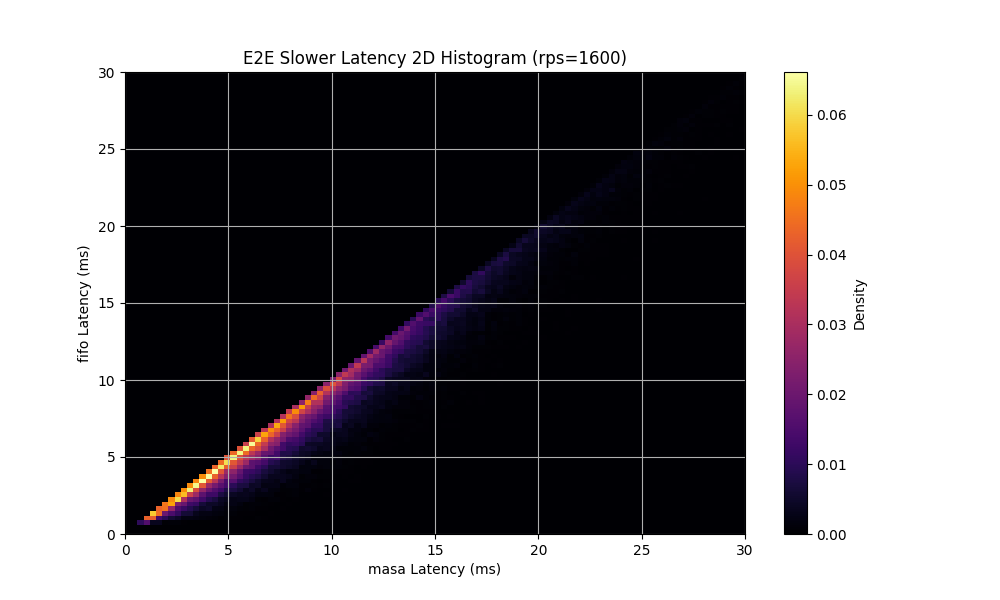
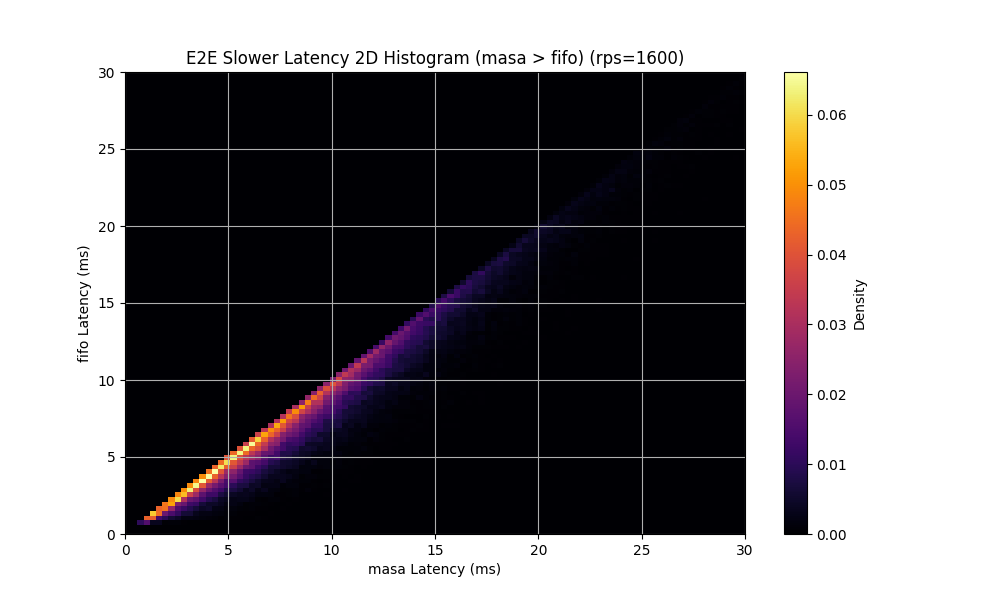
chore: Fix queueing preprocess and plot

Changed region(s): [[0.186, 0.06, 0.682, 0.12]]

diff --git a/reboot/snippets/flat/plot_queueing.py b/reboot/snippets/flat/plot_queueing.py
@@ -6,28 +6,12 @@ import pandas as pd
 
 rps = 1600
 modes = ["masa", "fifo"]
-results_raw = {}
-sh_i1 = "say_hello_i1"
-sh_i2 = "say_hello_i2"
+results_queueing: Dict[str, List[int]] = {}
 
 for mode in modes:
-    file = f"tmp_{mode}_log.txt"
-    id_to_spans: Dict[int, List[Dict]] = {}
-
-    with open(file) as f:
-        lines = f.readlines()
-        for line in lines:
-            if sh_i1 in line or sh_i2 in line:
-                splits = line.split()[-1].split(",")
-                span = splits[0]
-                id = int(splits[1])
-                elapse = int(splits[2])
-                latency = int(splits[3])
-                id_to_spans.setdefault(id, []).append(
-                    {"span": span, "elapse": elapse, "latency": latency}
-                )
-
-    results_raw[mode] = id_to_spans
+    file = f"tmp_{mode}_log_filtered.csv"
+    df = pd.read_csv(file)
+    results_queueing[mode] = list(df["queueing"])
 
 
 def plot_cdf(results: Dict[str, List[int]], title: str, fig_name: str):
@@ -64,31 +48,17 @@ def plot_pdf(results: Dict[str, List[int]], title: str, fig_name: str):
     plt.show()
 
 
-# results_second_hop_queueing: Dict[str, List[int]] = {"masa": [], "fifo": []}
-# for mode in modes:
-#     n_dp = 0
-#     id_to_spans = results_raw[mode]
-#     for id, spans in id_to_spans.items():
-#         if len(spans) == 2:
-#             n_dp += 1
-#             # [NOTE] Depending on the definition of "latency" and "elapse".
-#             # queueing_latency = spans[1]["latency"] - spans[1]["elapse"] - spans[0]["latency"]
-#             queueing_latency = spans[1]["latency"] - spans[0]["latency"]
-#             results_second_hop_queueing[mode].append(queueing_latency)
-#     pctl_dp = n_dp / len(id_to_spans)
-#     print(f"{mode}: {round(pctl_dp*100)}% data points")
+plot_cdf(
+    results_queueing,
+    f"Queueing Latency at Second Hop (rps={rps})",
+    "fig_queueing_second_hop_cdf.png",
+)
 
-# plot_cdf(
-#     results_second_hop_queueing,
-#     f"Queueing Latency at Second Hop (rps={rps})",
-#     "fig_second_hop_queueing_cdf.png",
-# )
-
-# plot_pdf(
-#     results_second_hop_queueing,
-#     f"Queueing Latency at Second Hop (rps={rps})",
-#     "fig_second_hop_queueing_pdf.png",
-# )
+plot_pdf(
+    results_queueing,
+    f"Queueing Latency at Second Hop (rps={rps})",
+    "fig_queueing_second_hop_pdf.png",
+)
 
 
 def plot_ratio_cdf(results: List[float], title: str, fig_name: str):
@@ -137,21 +107,98 @@ def plot_ratio_pdf(results: List[float], title: str, fig_name: str):
     plt.show()
 
 
-# results_second_hop_queueing_ratio: List[float] = []
-# for i in range(len(results_second_hop_queueing["masa"])):
-#     masa = results_second_hop_queueing["masa"][i]
-#     fifo = results_second_hop_queueing["fifo"][i]
-#     ratio = masa / fifo * 100
-#     results_second_hop_queueing_ratio.append(ratio)
+results_queueing_ratio: List[float] = []
+for i in range(len(results_queueing["masa"])):
+    masa = results_queueing["masa"][i]
+    fifo = results_queueing["fifo"][i]
+    ratio = masa / fifo * 100
+    results_queueing_ratio.append(ratio)
 
-# plot_ratio_cdf(
-#     results_second_hop_queueing_ratio,
-#     f"Queueing Latency Ratio at Second Hop (masa / fifo) (rps={rps})",
-#     "fig_second_hop_queueing_ratio_cdf.png",
-# )
+plot_ratio_cdf(
+    results_queueing_ratio,
+    f"Queueing Latency Ratio at Second Hop (masa / fifo) (rps={rps})",
+    "fig_queueing_ratio_second_hop_cdf.png",
+)
 
-# plot_ratio_pdf(
-#     results_second_hop_queueing_ratio,
-#     f"Queueing Latency Ratio at Second Hop (masa / fifo) (rps={rps})",
-#     "fig_second_hop_queueing_ratio_pdf.png",
-# )
+plot_ratio_pdf(
+    results_queueing_ratio,
+    f"Queueing Latency Ratio at Second Hop (masa / fifo) (rps={rps})",
+    "fig_queueing_ratio_second_hop_pdf.png",
+)
+
+
+def plot_2d_histogram(results: Dict[str, List[int]], title, fig_name):
+    fig, ax = plt.subplots(figsize=(10, 6))
+
+    masa_latencies = [r / 1e3 for r in results["masa"]]
+    fifo_latencies = [r / 1e3 for r in results["fifo"]]
+    h, xedges, yedges, img = ax.hist2d(
+        masa_latencies,
+        fifo_latencies,
+        range=[[0, 4], [0, 4]],
+        bins=100,
+        cmap="inferno",
+        density=True,
+    )
+    ax.set_xlabel("masa Latency (ms)")
+    ax.set_ylabel("fifo Latency (ms)")
+    ax.set_title(title)
+
+    cbar = fig.colorbar(img, ax=ax)
+    cbar.ax.set_ylabel("Density")
+
+    plt.grid(True)
+    plt.savefig(fig_name)
+    plt.show()
+
+
+results_queueing_slower: Dict[str, List[int]] = {"masa": [], "fifo": []}
+results_queueing_faster: Dict[str, List[int]] = {"masa": [], "fifo": []}
+
+for i in range(len(results_queueing["masa"])):
+    masa = results_queueing["masa"][i]
+    fifo = results_queueing["fifo"][i]
+    if masa > fifo:
+        results_queueing_slower["masa"].append(masa)
+        results_queueing_slower["fifo"].append(fifo)
+    else:
+        results_queueing_faster["masa"].append(masa)
+        results_queueing_faster["fifo"].append(fifo)
+
+plot_cdf(
+    results_queueing_slower,
+    f"Queueing Slower Latency at Second Hop (masa > fifo) (rps={rps})",
+    "fig_queueing_slower_second_hop_cdf.png",
+)
+plot_pdf(
+    results_queueing_slower,
+    f"Queueing Slower Latency at Second Hop (masa > fifo) (rps={rps})",
+    "fig_queueing_slower_second_hop_pdf.png",
+)
+plot_2d_histogram(
+    results_queueing_slower,
+    f"Queueing Slower Latency at Second Hop 2D Histogram (masa > fifo) (rps={rps})",
+    "fig_queueing_slower_second_hop_2d_hist.png",
+)
+
+plot_cdf(
+    results_queueing_faster,
+    f"Queueing Faster Latency at Second Hop (masa < fifo) (rps={rps})",
+    "fig_queueing_faster_second_hop_cdf.png",
+)
+plot_pdf(
+    results_queueing_faster,
+    f"Queueing Faster Latency at Second Hop (masa < fifo) (rps={rps})",
+    "fig_queueing_faster_second_hop_pdf.png",
+)
+plot_2d_histogram(
+    results_queueing_faster,
+    f"Queueing Faster Latency at Second Hop 2D Histogram (masa < fifo) (rps={rps})",
+    "fig_queueing_faster_second_hop_2d_hist.png",
+)
+
+plot_2d_histogram(
+    results_queueing,
+    f"Queueing Latency at Second Hop 2D Histogram (rps={rps})",
+    "fig_queueing_second_hop_2d_hist.png",
+)

diff --git a/reboot/snippets/flat/plot_e2e.py b/reboot/snippets/flat/plot_e2e.py
@@ -118,20 +118,6 @@ plot_ratio_pdf(
     f"fig_e2e_ratio_pdf.png",
 )
 
-# [TODO] Plot a 2D histogram of masa vs fifo latencies.
-results_slower: Dict[str, List[int]] = {"masa": [], "fifo": []}
-results_faster: Dict[str, List[int]] = {"masa": [], "fifo": []}
-
-for i in range(len(results_e2e["masa"])):
-    masa = results_e2e["masa"][i]
-    fifo = results_e2e["fifo"][i]
-    if masa > fifo:
-        results_slower["masa"].append(masa)
-        results_slower["fifo"].append(fifo)
-    else:
-        results_faster["masa"].append(masa)
-        results_faster["fifo"].append(fifo)
-
 
 def plot_2d_histogram(results: Dict[str, List[int]], title, fig_name):
     fig, ax = plt.subplots(figsize=(10, 6))
@@ -158,27 +144,49 @@ def plot_2d_histogram(results: Dict[str, List[int]], title, fig_name):
     plt.show()
 
 
+results_slower: Dict[str, List[int]] = {"masa": [], "fifo": []}
+results_faster: Dict[str, List[int]] = {"masa": [], "fifo": []}
+
+for i in range(len(results_e2e["masa"])):
+    masa = results_e2e["masa"][i]
+    fifo = results_e2e["fifo"][i]
+    if masa > fifo:
+        results_slower["masa"].append(masa)
+        results_slower["fifo"].append(fifo)
+    else:
+        results_faster["masa"].append(masa)
+        results_faster["fifo"].append(fifo)
+
+
 plot_cdf(
-    results_slower, f"E2E Slower Latency CDF (rps={rps})", f"fig_e2e_slower_cdf.png"
+    results_slower,
+    f"E2E Slower Latency CDF (masa > fifo) (rps={rps})",
+    f"fig_e2e_slower_cdf.png",
 )
 plot_pdf(
-    results_slower, f"E2E Slower Latency PDF (rps={rps})", f"fig_e2e_slower_pdf.png"
+    results_slower,
+    f"E2E Slower Latency PDF (masa > fifo) (rps={rps})",
+    f"fig_e2e_slower_pdf.png",
 )
 plot_2d_histogram(
     results_slower,
-    f"E2E Slower Latency 2D Histogram (rps={rps})",
+    f"E2E Slower Latency 2D Histogram (masa > fifo) (rps={rps})",
     f"fig_e2e_slower_2d_hist.png",
 )
 
 plot_cdf(
-    results_faster, f"E2E Faster Latency CDF (rps={rps})", f"fig_e2e_faster_cdf.png"
+    results_faster,
+    f"E2E Faster Latency CDF (masa < fifo) (rps={rps})",
+    f"fig_e2e_faster_cdf.png",
 )
 plot_pdf(
-    results_faster, f"E2E Faster Latency PDF (rps={rps})", f"fig_e2e_faster_pdf.png"
+    results_faster,
+    f"E2E Faster Latency PDF (masa < fifo) (rps={rps})",
+    f"fig_e2e_faster_pdf.png",
 )
 plot_2d_histogram(
     results_faster,
-    f"E2E Faster Latency 2D Histogram (rps={rps})",
+    f"E2E Faster Latency 2D Histogram (masa < fifo) (rps={rps})",
     f"fig_e2e_faster_2d_hist.png",
 )
 

diff --git a/reboot/snippets/flat/preprocess_queueing.py b/reboot/snippets/flat/preprocess_queueing.py
@@ -1,0 +1,68 @@
+from typing import *
+
+import matplotlib.pyplot as plt
+import numpy as np
+import pandas as pd
+
+rps = 1600
+modes = ["masa", "fifo"]
+
+results_raw: Dict[str, List] = {}
+sh_i1 = "say_hello_i1"
+sh_i2 = "say_hello_i2"
+
+for mode in modes:
+    file = f"tmp_{mode}_log.txt"
+    ids_to_spans: Dict[int, List[Dict]] = {}
+
+    with open(file) as f:
+        lines = f.readlines()
+        for line in lines:
+            if sh_i1 in line or sh_i2 in line:
+                splits = line.split()[-1].split(",")
+                span: Dict[str, Any] = {
+                    "span": splits[0],
+                    "request_id": int(splits[1]),
+                    "elapse": int(splits[2]),
+                    "latency": int(splits[3]),
+                }
+                ids_to_spans.setdefault(span["request_id"], []).append(span)
+
+    spans_queueing: List[Dict] = []
+    for id in ids_to_spans:
+        spans = ids_to_spans[id]
+        if len(spans) != 2:
+            continue
+        span1 = spans[0]
+        span2 = spans[1]
+        assert span1["span"] == sh_i1
+        assert span2["span"] == sh_i2
+        span_queueing = {
+            "request_id": id,
+            "queueing": int(span2["latency"]) - int(span1["latency"]),
+        }
+        spans_queueing.append(span_queueing)
+
+    results_raw[mode] = spans_queueing
+
+ids_to_modes: Dict[int, List[str]] = {}
+for mode in modes:
+    spans = results_raw[mode]
+    for span in spans:
+        id = span["request_id"]
+        ids_to_modes.setdefault(id, []).append(mode)
+
+common_ids = set(
+    id for id, modes in ids_to_modes.items() if len(modes) == 2 and modes[0] != modes[1]
+)
+
+for mode in modes:
+    spans_filtered = []
+    spans = results_raw[mode]
+    for span in spans:
+        id = span["request_id"]
+        if id in common_ids:
+            spans_filtered.append(span)
+    spans_filtered = sorted(spans_filtered, key=lambda x: x["request_id"])
+    df = pd.DataFrame(spans_filtered)
+    df.to_csv(f"tmp_{mode}_log_filtered.csv", index=False)

diff --git a/reboot/snippets/flat/preprocess_e2e.py b/reboot/snippets/flat/preprocess_e2e.py
@@ -14,10 +14,10 @@ for mode in modes:
 
     spans: List[Dict] = []
     for _, row in df.iterrows():
-        id = row["request_id"]
+        id = int(row["request_id"])
         span = row["span"]
-        slo = row["slo"]
-        latency = row["latency"]
+        slo = int(row["slo"])
+        latency = int(row["latency"])
         spans.append({"request_id": id, "span": span, "slo": slo, "latency": latency})
     results_raw[mode] = spans
 
